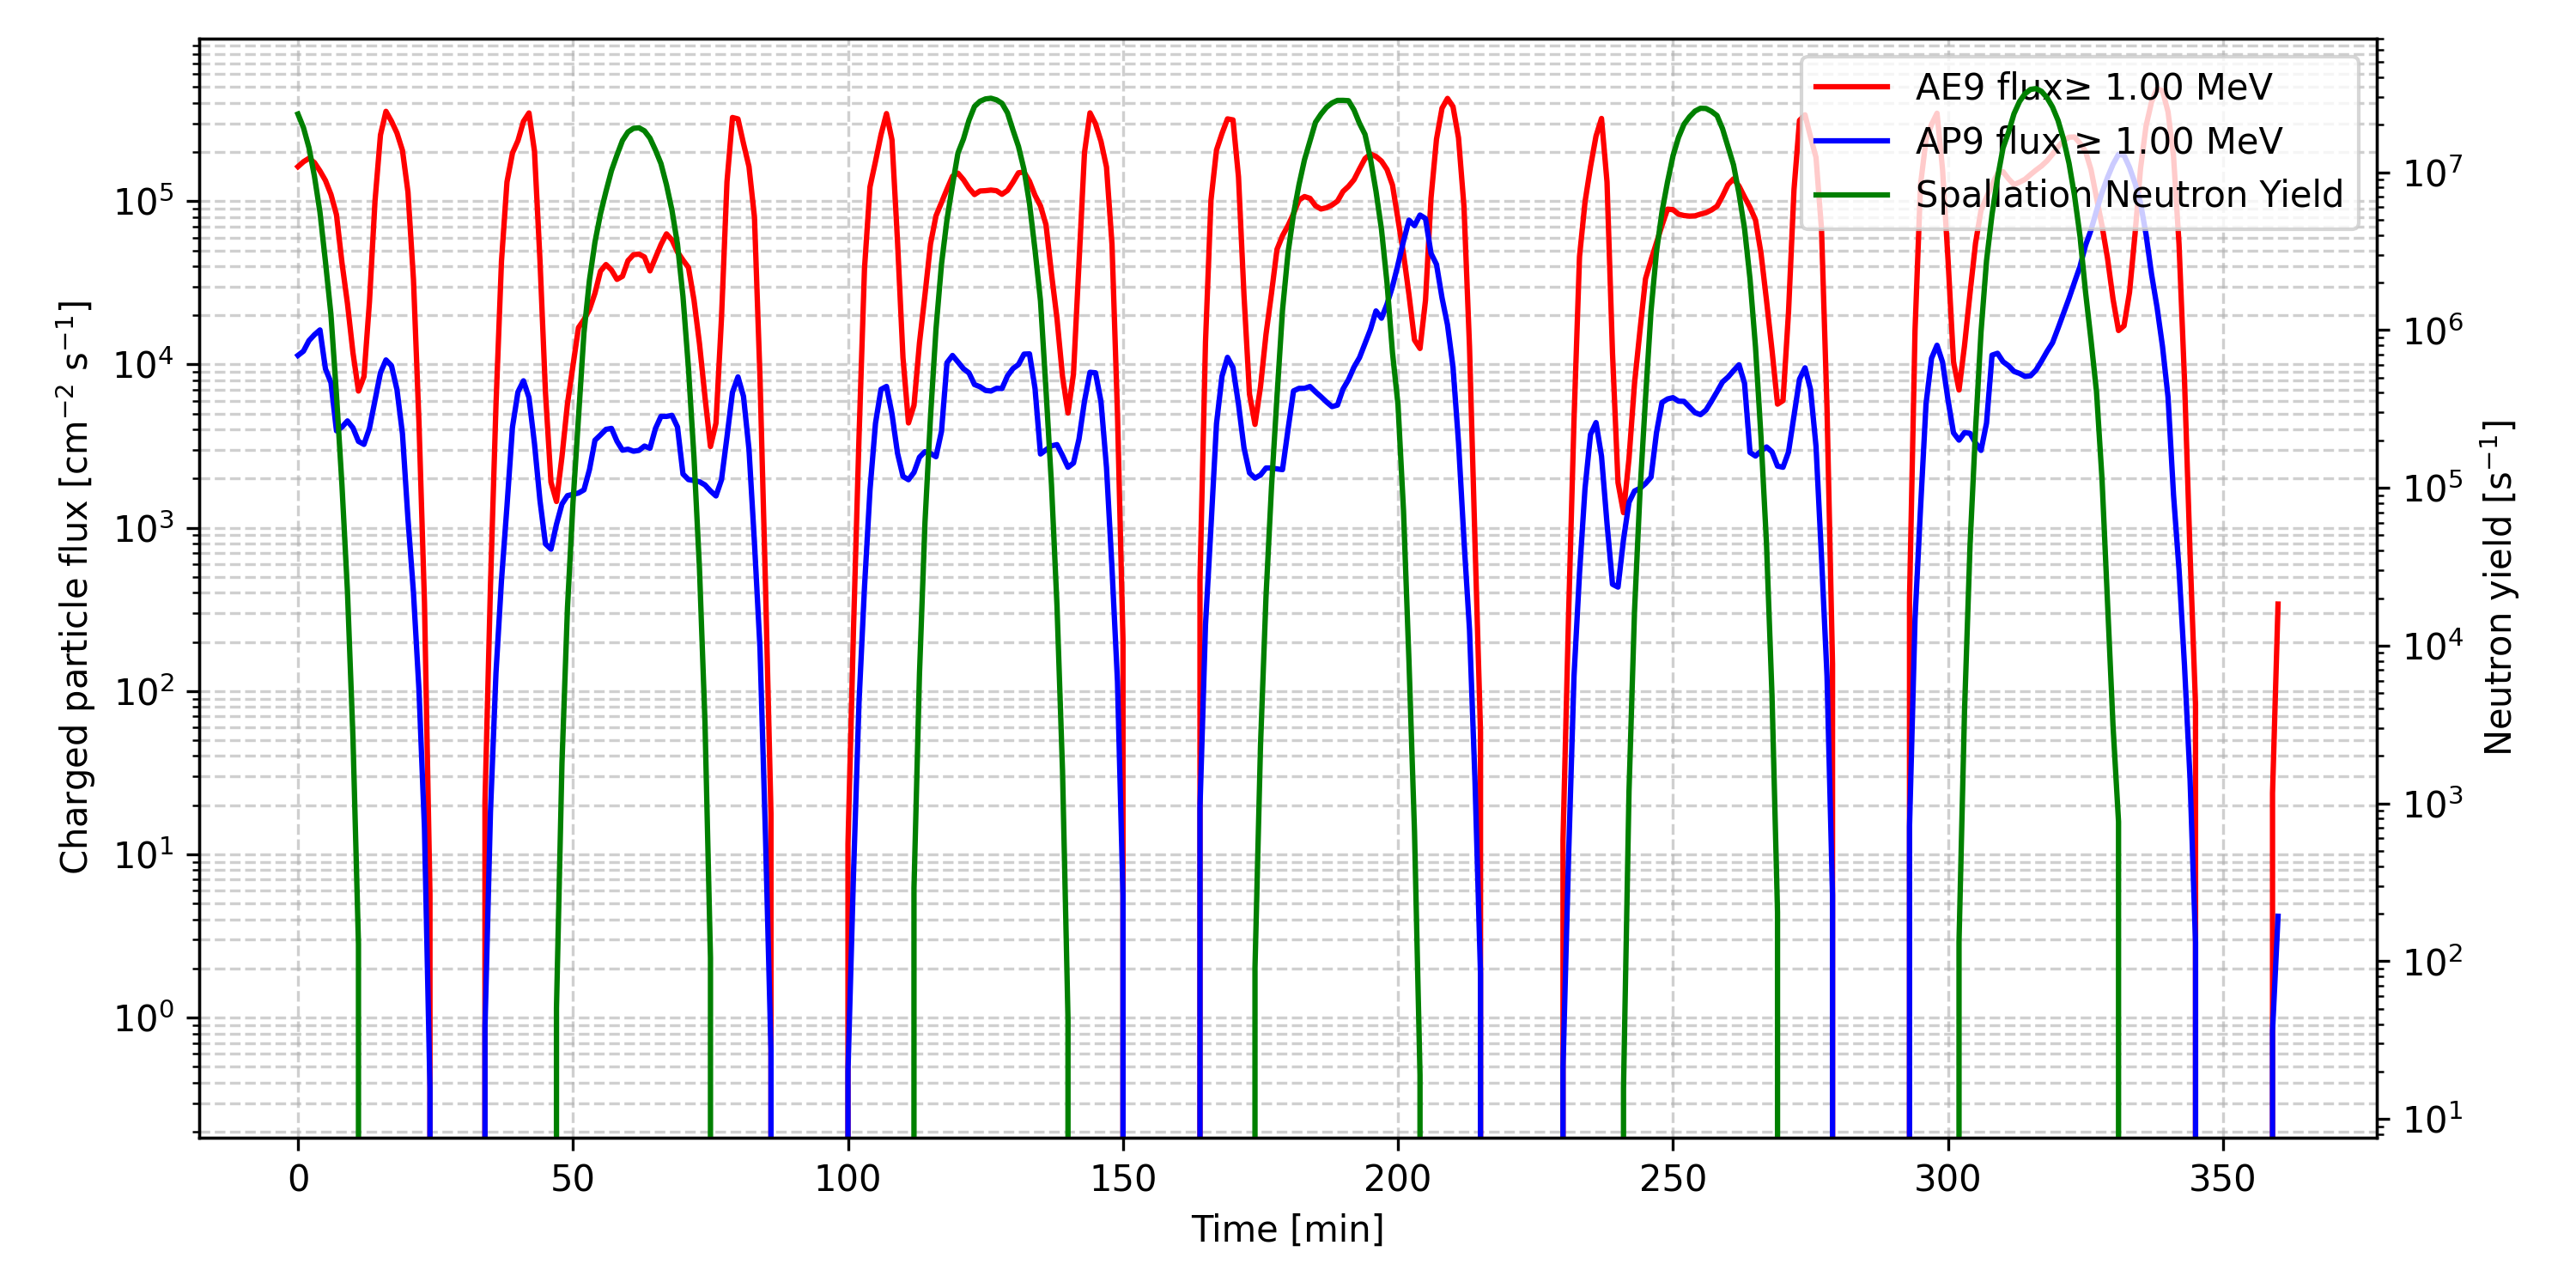
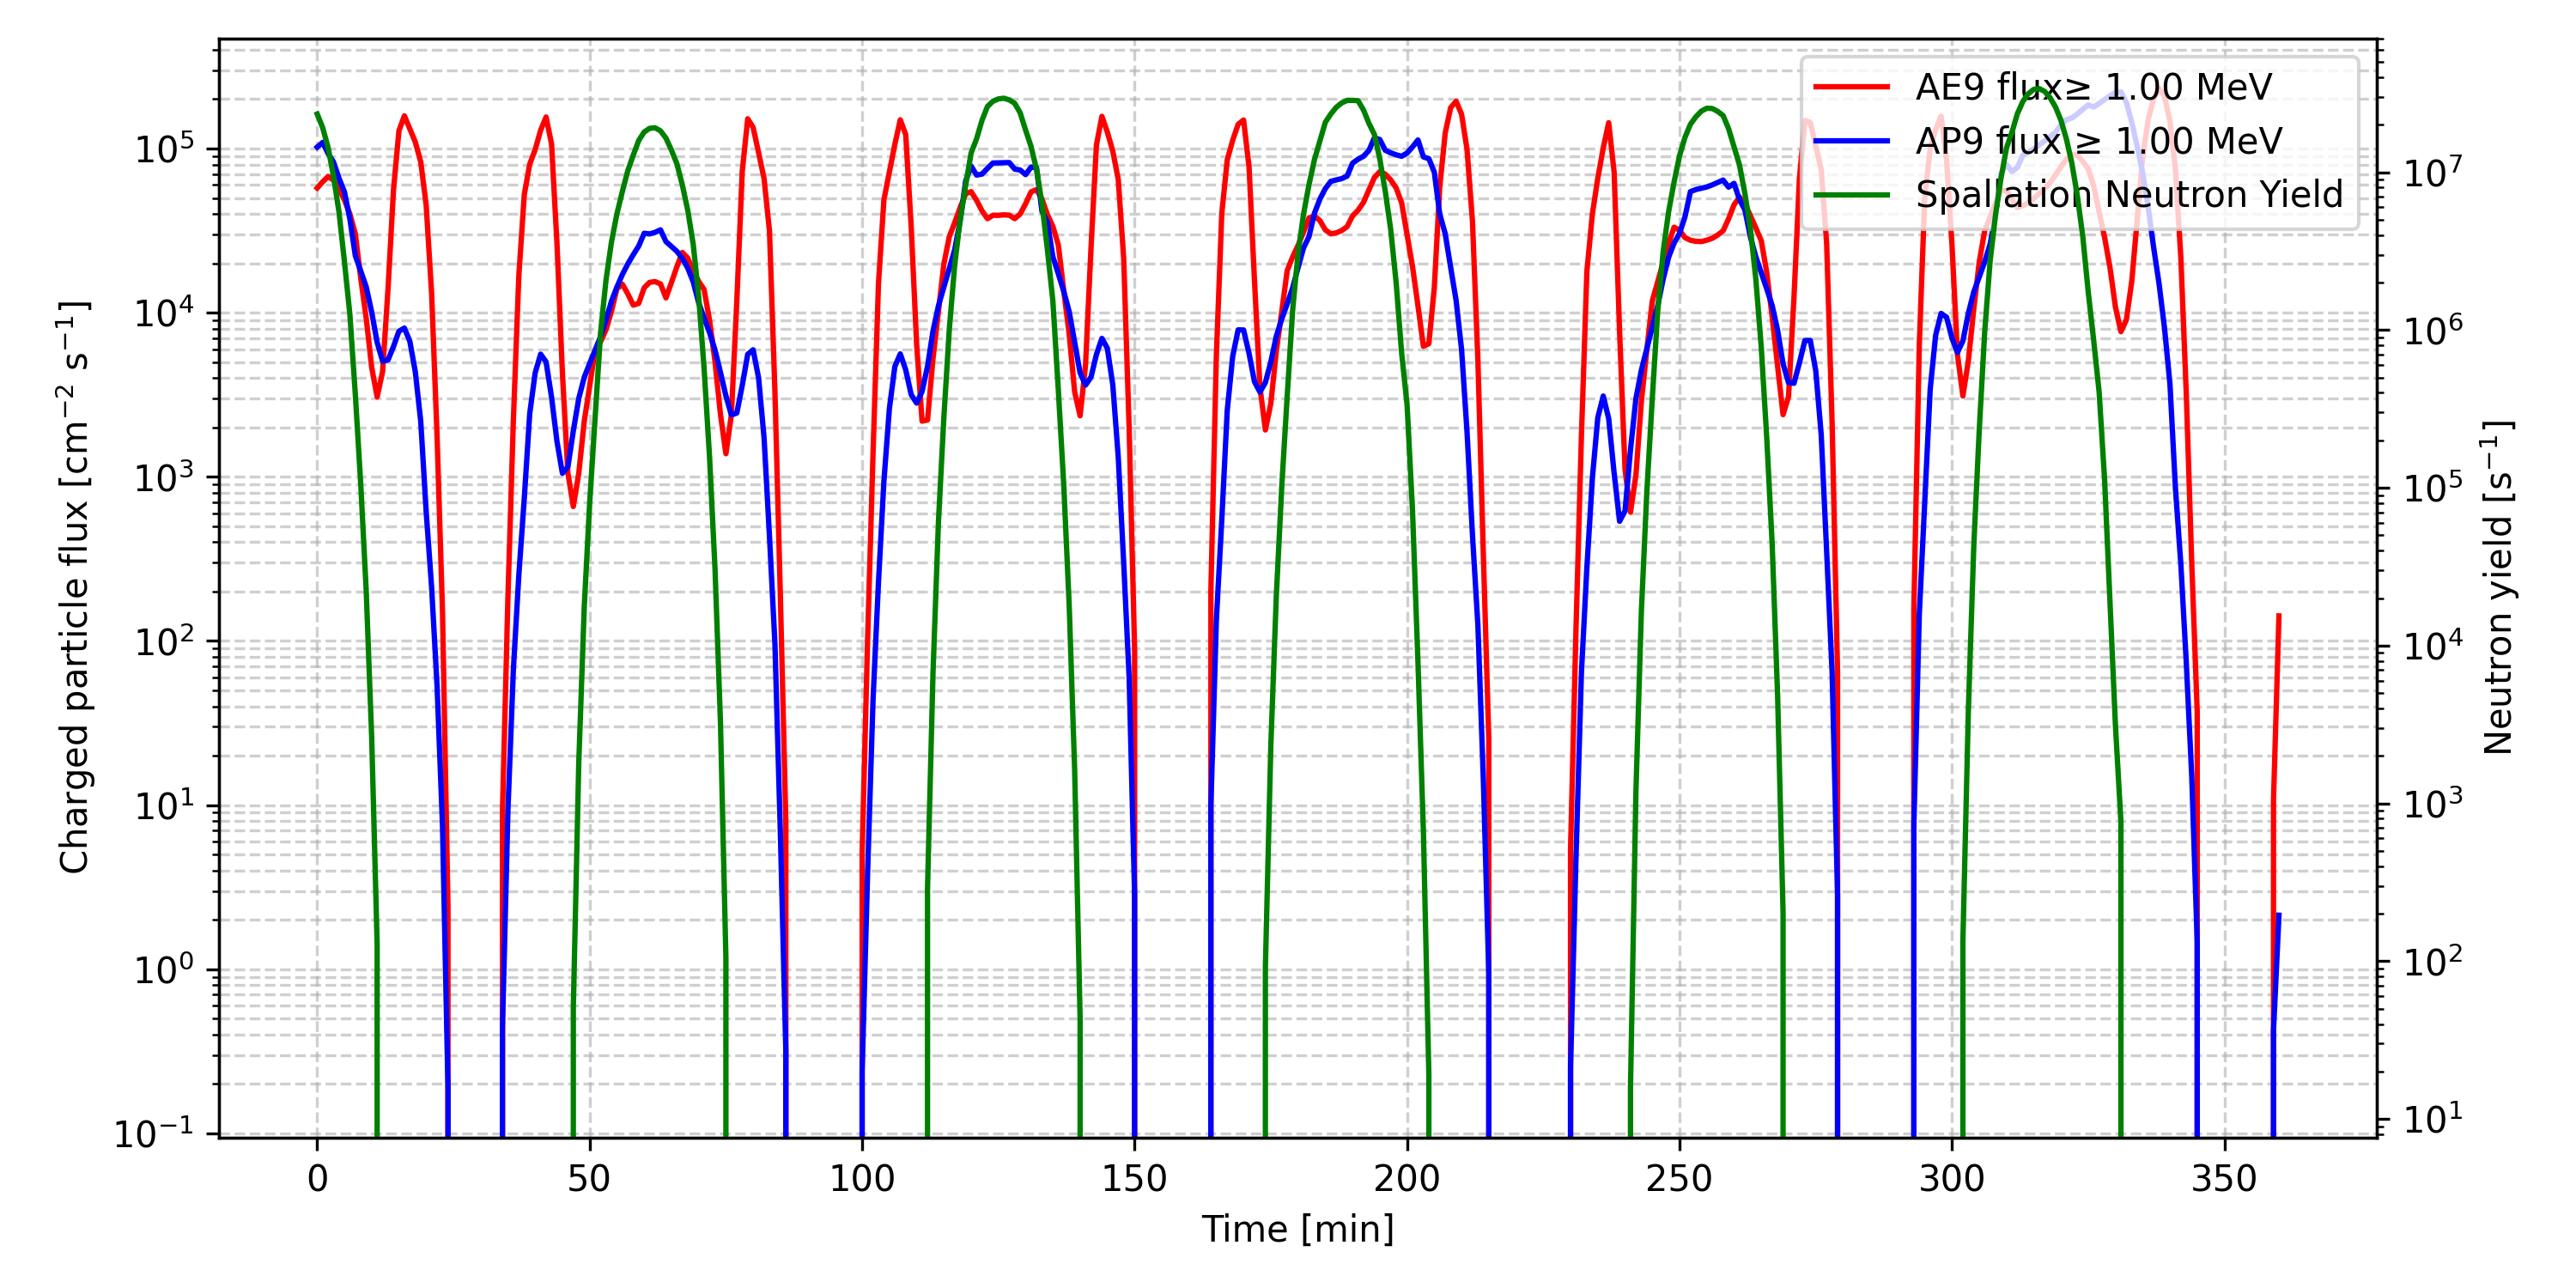
Added a function that integrates flux above a given lower energy cut

Changed region(s): [[0.031, 0.0307, 0.93, 0.9813]]

diff --git a/irene/first_space_runs/plot_diff_integrate.py b/irene/first_space_runs/plot_diff_integrate.py
@@ -88,7 +88,6 @@ def plot_irene_flux(filename, model_type=None, n_curves=15, start_step=300, step
             break
         y = flux[i, :n_flux_cols]
         elapsed_minutes = i 
-
         spallation_neutron_count = integrate_spectrum_byEq1(
             energy_bins, y, threshold=200
         )
@@ -98,14 +97,12 @@ def plot_irene_flux(filename, model_type=None, n_curves=15, start_step=300, step
             for idx, (e_val, f_val) in enumerate(zip(energy_bins, y)):
                 print(f"  Bin {idx:2d}: E = {e_val:.4f} MeV, Flux = {f_val:.6e} cm^-2 s^-1 MeV^-1")
 
-
         plt.plot(
             energy_bins,
             y,
             color=c,
             label=f'{elapsed_minutes:.0f} min, neutrons = {spallation_neutron_count:.1e} s$^{{-1}}$'
         )
-
 
     if model == 'AE9':
         ylabel = 'electron flux [cm$^{-2}$ s$^{-1}$ MeV$^{-1}$]'
@@ -131,6 +128,29 @@ def plot_irene_flux(filename, model_type=None, n_curves=15, start_step=300, step
     print(f'Average spallation neutron rate over plotted steps: {avg_neutron_rate:.3e} s^-1')
 
 
+def integrate_above_cut(bins, flux_2d, cut):
+    # bins: (n_bins,) centers in MeV
+    # flux_2d: (n_times, n_bins) differential flux in cm^-2 s^-1 MeV^-1
+    b = np.asarray(bins)
+    y = np.asarray(flux_2d)
+
+    # construct bin edges from centers
+    edges = np.empty(b.size + 1, dtype=float)
+    edges[1:-1] = 0.5 * (b[1:] + b[:-1])
+    edges[0] = b[0] - 0.5 * (b[1] - b[0])
+    edges[-1] = b[-1] + 0.5 * (b[-1] - b[-2])
+
+    # widths if no threshold
+    widths = edges[1:] - edges[:-1]
+
+    # apply threshold: effective width of each bin above 'cut'
+    # For each bin i, width' = max(0, edge[i+1] - max(edge[i], cut))
+    left = np.maximum(edges[:-1], cut)
+    right = edges[1:]
+    eff_widths = np.clip(right - left, a_min=0.0, a_max=None)
+
+    # integrate: sum_j y[:, j] * eff_widths[j]
+    return (y * eff_widths).sum(axis=1)
 
 def plot_time_resolved_neutron_yield_from_diff(ae9_file, ap9_file, threshold=200, lower_energy_cut=1.0):
 
@@ -138,36 +158,32 @@ def plot_time_resolved_neutron_yield_from_diff(ae9_file, ap9_file, threshold=200
     model_e, time_e, bins_e, flux_e = load_diff_flux(ae9_file)
     model_p, time_p, bins_p, flux_p = load_diff_flux(ap9_file)
 
+    #mask_e = bins_e >= lower_energy_cut
+    mask_p = bins_p >= lower_energy_cut
+
     neutron_yields = []
     for i in range(flux_p.shape[0]):
-        mask = bins_p >= lower_energy_cut
         neutron_count = integrate_spectrum_byEq1(
-            bins_p[mask],
-            flux_p[i, mask],
+            bins_p[mask_p],
+            flux_p[i, mask_p],
             threshold=threshold
         )
         neutron_yields.append(neutron_count)
     neutron_yields = np.array(neutron_yields)
 
-    idx_e = np.argmin(np.abs(bins_e - lower_energy_cut))
-    flux_e_plot = flux_e[:, idx_e]
-    chosen_energy_e = bins_e[idx_e]
+    # Integrate electron and proton flux over energy bins above lower_energy_cut
 
-    idx_p = np.argmin(np.abs(bins_p - lower_energy_cut))
-    chosen_energy_p = bins_p[idx_p]
-    flux_p_plot = flux_p[:, idx_p]
+    flux_e_plot = integrate_above_cut(bins_e, flux_e, lower_energy_cut)  # cm^-2 s^-1
+    flux_p_plot = integrate_above_cut(bins_p, flux_p, lower_energy_cut)  # cm^-2 s^-1
 
-    print(f"Electron flux plotted at {chosen_energy_e:.2f} MeV")
-    print(f"Proton flux plotted at {chosen_energy_p:.2f} MeV")
 
     fig, ax1 = plt.subplots(figsize=(10, 5))
 
     # Electron and proton flux time series
     ax1.plot(time_e, flux_e_plot, 'r-', 
-         label=f'{model_e} flux≥ {chosen_energy_e:.2f} MeV')
-    print(flux_e_plot[125], time_e[125])
+         label=f'{model_e} flux≥ {lower_energy_cut:.2f} MeV')
     ax1.plot(time_p, flux_p_plot, 'b-', 
-         label=f'{model_p} flux ≥ {chosen_energy_p:.2f} MeV')
+         label=f'{model_p} flux ≥ {lower_energy_cut:.2f} MeV')
     ax1.set_yscale('log')
     ax1.set_xlabel('Time [min]')
     ax1.set_ylabel('Charged particle flux [cm$^{-2}$ s$^{-1}$]')